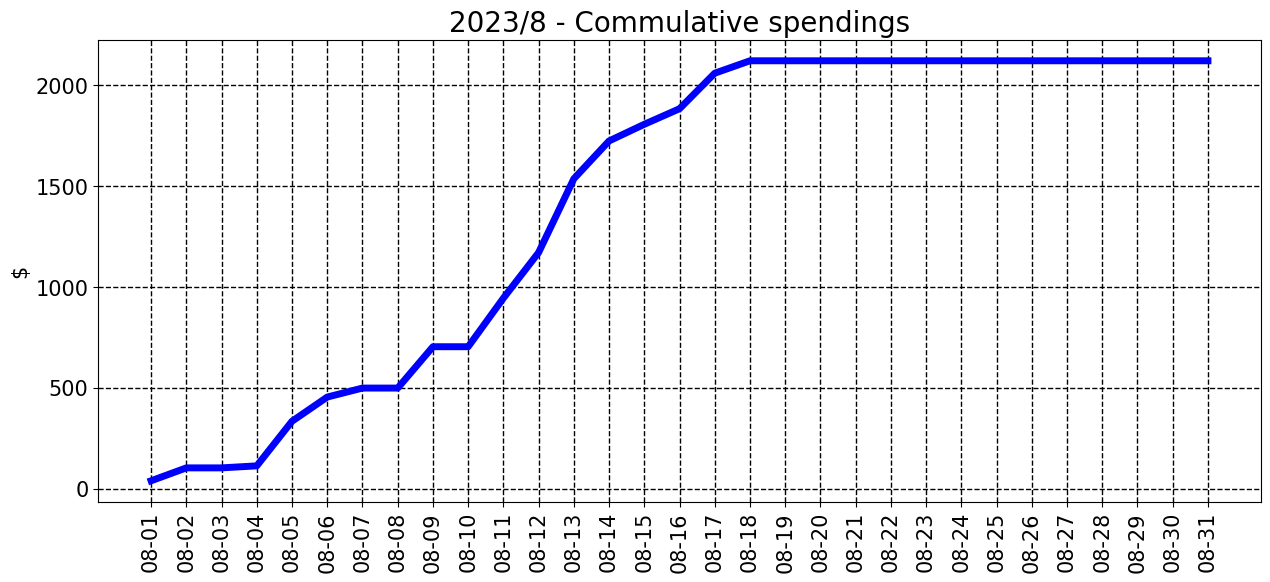
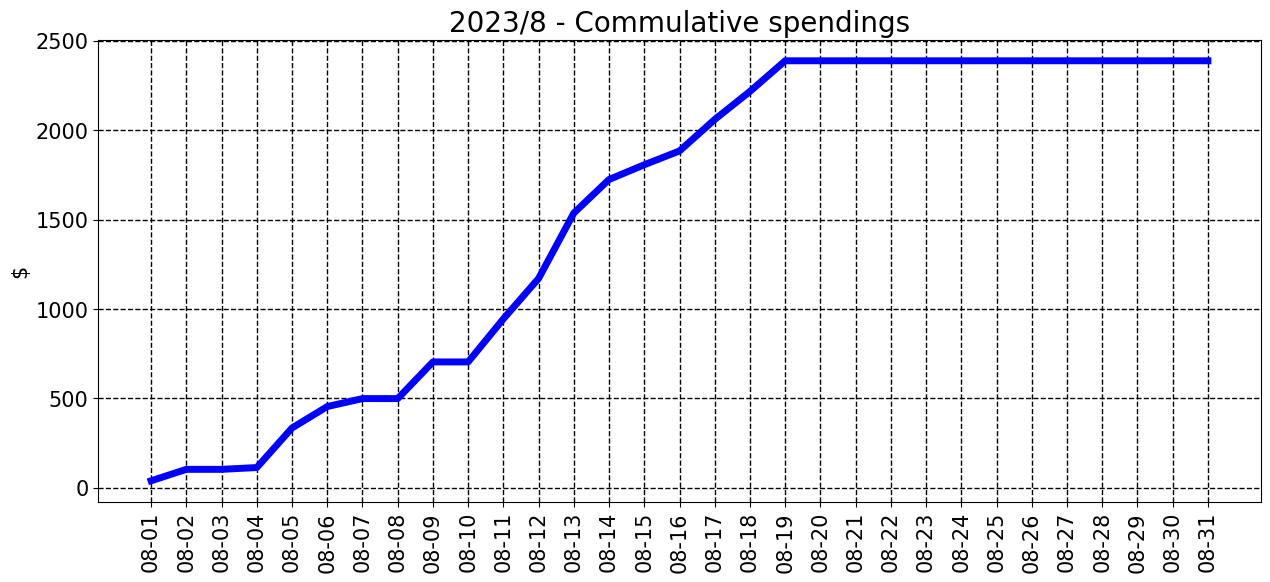
commit from python

Changed region(s): [[0.0307, 0.0928, 0.9827, 0.7732], [0.0614, 0.7732, 0.9827, 0.866], [0.0307, 0.0619, 0.0921, 0.0928]]

diff --git a/README.md b/README.md
@@ -7,7 +7,7 @@ __________________________________
 <sub><sup>
 | Spent | Avg daily | End of month projection | Spent since 2023/7 |
 |---|---|---|---|
-| $2121.0  |  $117.8  | $3652.0  |  $2509.0  |
+| $2388.0  |  $119.4  | $3701.0  |  $2776.0  |
 </sub></sup>
 __________________________________
 ![graph_8_sum](graph_8_sum.png)
